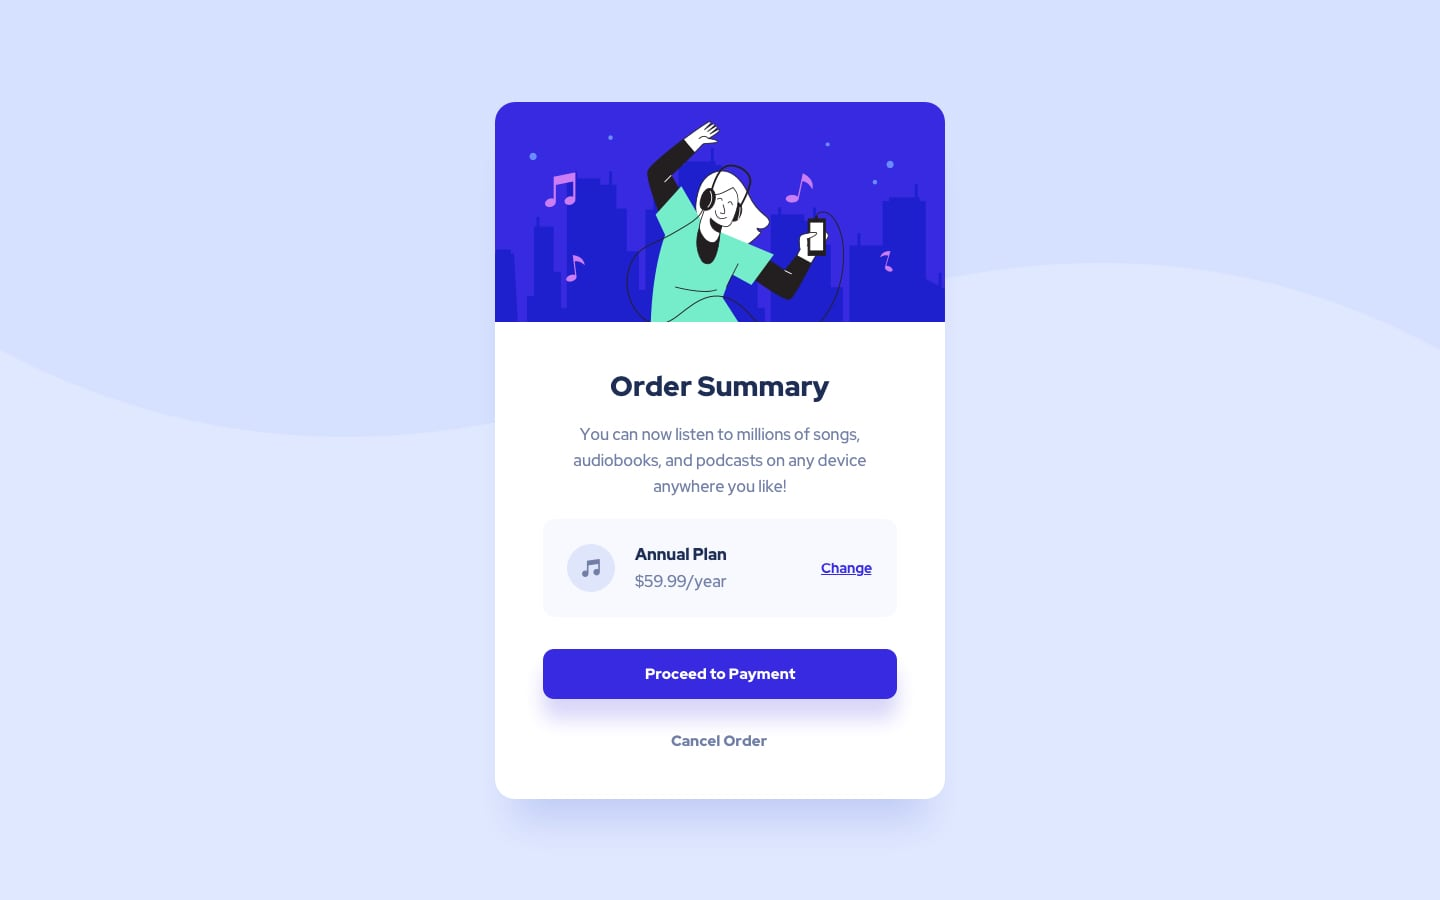
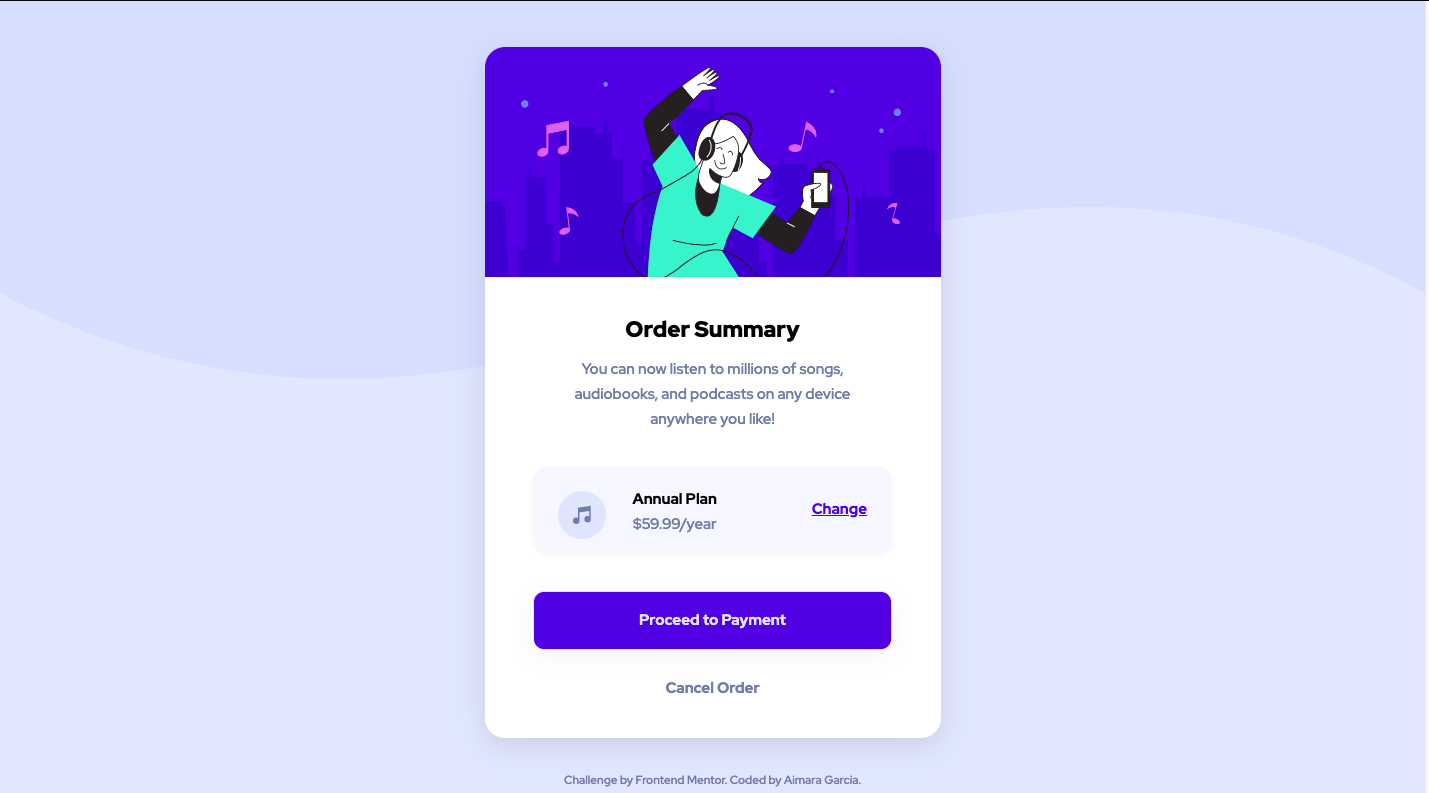
Changed cancel order <btn> by cancel order <link>, added in design folder screenshoots from my solution

diff --git a/css/main.css b/css/main.css
@@ -265,7 +265,7 @@ textarea {
      background-color: hsla(244, 80%, 68%, 1);
    }
 
-   .cancel-btn {
+   .cancel-link {
       width: 100%;
       background-color: transparent;
       font-family: 'Red Hat Display', sans-serif;
@@ -277,7 +277,7 @@ textarea {
       cursor:pointer;
    }
 
-   .cancel-btn:hover {
+   .cancel-link:hover {
      color:black;
    }
 
@@ -454,7 +454,7 @@ textarea {
     margin: 30px 0;
   }
 
-  .cancel-btn {
+  .cancel-link {
     margin-bottom: 40px;
   }
 

diff --git a/index.html b/index.html
@@ -67,7 +67,7 @@
 
             <section class="card-payment">
               <input class="payment-btn" type="button" value="Proceed to Payment">
-              <input class="cancel-btn" type="button" value="Cancel Order">
+              <div class="cancel-link">Cancel Order</div>
             </section>
           </div>
         </section>

diff --git a/README-template.md b/README-template.md
@@ -28,7 +28,11 @@ Users should be able to:
 
 ### Screenshot
 
-![](./screenshot.jpg)
+Mobile
+![](.design/mobil-design.jpg)
+
+Desktop
+![](.design/desktop-design.jpg)
 
 Add a screenshot of your solution. The easiest way to do this is to use Firefox to view your project, right-click the page and select "Take a Screenshot". You can choose either a full-height screenshot or a cropped one based on how long the page is. If it's very long, it might be best to crop it.
 
